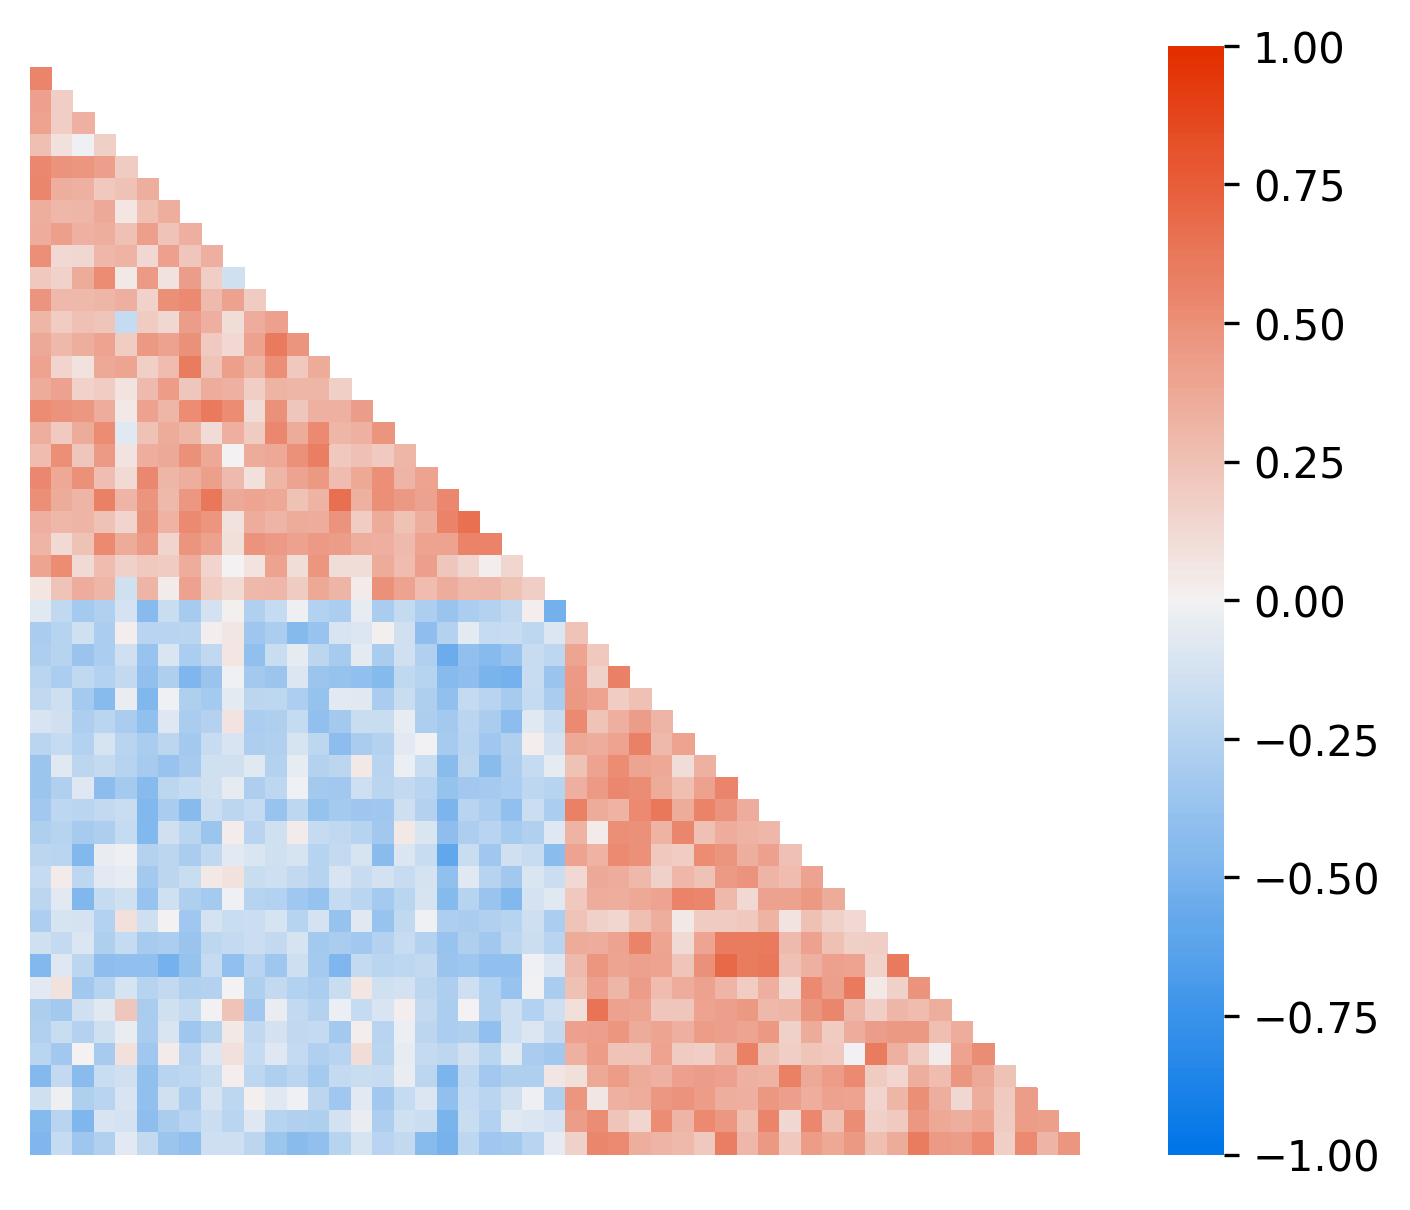
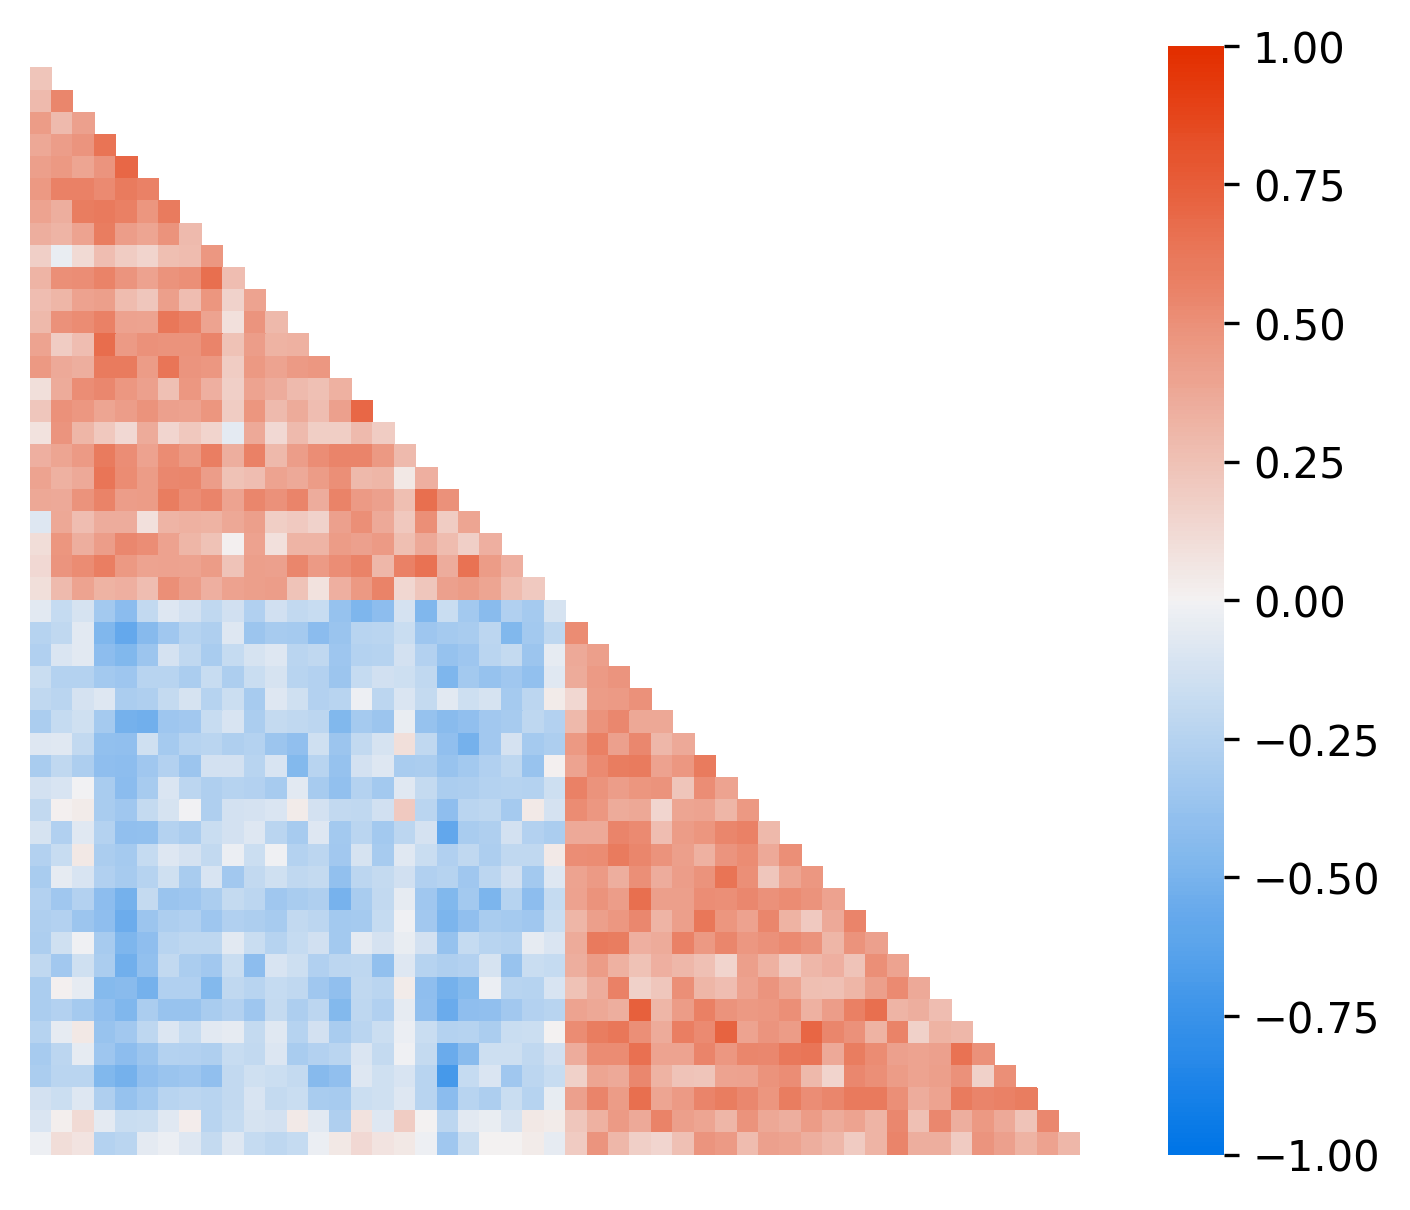
Add occ2Xmeso and other new classifications to run_correlograms.py and commit correlograms

Changed region(s): [[0.0, 0.0612, 0.7801, 0.9785]]

diff --git a/Code/run_correlograms.py b/Code/run_correlograms.py
@@ -1,5 +1,6 @@
 
-for idx in [('iota','gamma'), ('occ4_first_recode','sector_IBGE'), ('occ4_first_recode','gamma')]:
+
+for idx in classification_list :
     # using wtype_var and jtype_Var instead of worker_type_var and job_type_var so we don't reset the master versions set in do_all.py
     wtype_var = idx[0]
     jtype_var    = idx[1]
